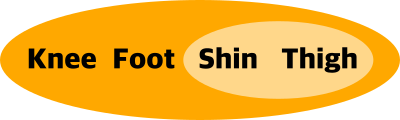
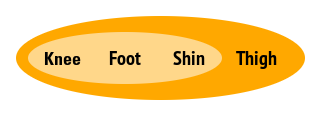
Fixed grouping.

diff --git a/docs/_posts/documentation/creating-group-hierarchies.md b/docs/_posts/documentation/creating-group-hierarchies.md
@@ -33,8 +33,8 @@ And you also want the thigh movement to include the shin and the foot:
 
 You'll need to group the foot and shin together, then add the thigh as a separate group containing both the foot and shin. The steps for this operation follow:
 
-1. Select shin and thigh
-2. Choose *Context Menu > Add Parent Group > Transform*
+1. Select foot and shin.
+2. Choose *Context Menu > Add Parent Group > Transform.*
 
 The outcome produces a group hierarchy that looks like this:
 
@@ -51,7 +51,7 @@ This type of grouping lets you easily articulate the robot leg. For instance if 
 Suppose that you want to add a knee to the robot leg described in the previous section. For this, you'll add the knee to the existing foot and shin group so that all three of these objects move together.
 
 1. Choose the knee.
-2. Drag & drop the knee into the parent group alongside with the foot.
+2. Drag & drop the knee into the parent group alongside with the foot and shin.
 
 The outcome produces a group hierarchy that looks like this:
 
